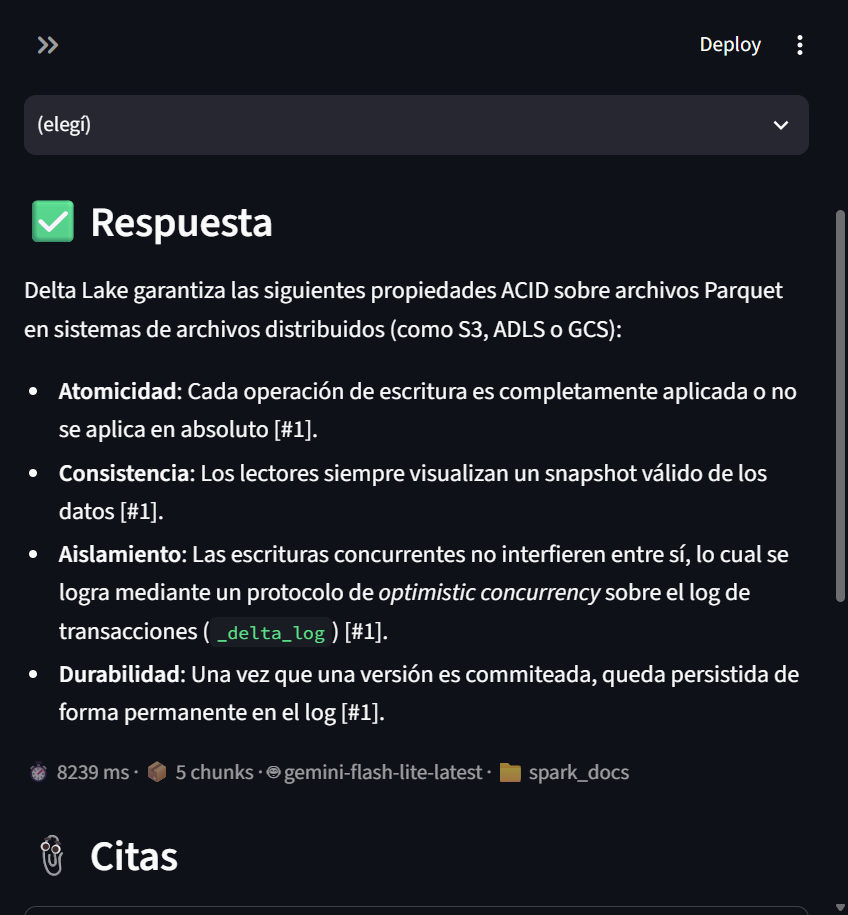
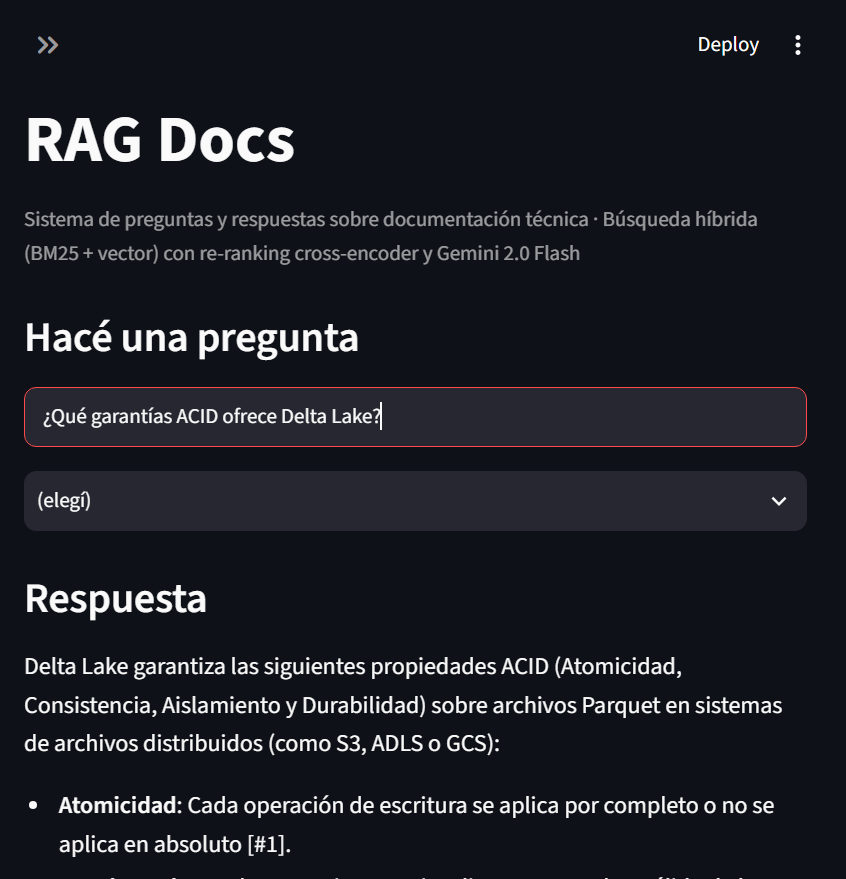
Portfolio ready: real GitHub username, clean demo screenshot, architecture diagram
- README: replace 'your-username/rag-docs' placeholder with franco18min/rag-docs
  in the CI badge so it points to the real workflow once you push
- docs/img/streamlit-demo.jpg: regenerate to match the emoji-free UI (was
  captured before the Streamlit cleanup)
- docs/diagrams/architecture.md: high-level + detailed + Mermaid versions
  of the system architecture, ready to render in GitHub and as a
  whiteboard-friendly ASCII summary

diff --git a/docs/diagrams/architecture.md b/docs/diagrams/architecture.md
@@ -1,0 +1,144 @@
+# RAG Docs — Architecture Diagram
+
+A visual overview of the system. Two parts:
+1. **High-level**: what RAG is, in 30 seconds
+2. **Detailed**: how the actual project implements each step
+
+## High-level: two phases, one shared store
+
+```
+                          RAG: dos fases, un store
+                          ========================
+
+  OFFLINE (una vez)                   ONLINE (cada pregunta)
+  =================                   ====================
+
+  Doc → Chunk → Embed ──┐              ┌──▶  Vector Search ──┐
+                        │              │                     │
+                        ├──────────────┤   hybrid con BM25   ├──▶ Rerank ──▶ LLM ──▶ Answer
+                        │              │                     │    (cross-    (Gemini    + Citations
+                        │              └──▶  BM25 keyword ──┘    encoder)    Flash)
+                        ▼
+                  [Vector Store]
+                  Chroma | Databricks VS
+```
+
+**Key insight:** los mismos datos (chunks + embeddings) se usan para escribir (offline) y para buscar (online). La pipeline se monta sobre ese store compartido.
+
+## Detailed: each box
+
+```
+                  RAG: Retrieval-Augmented Generation
+                  =====================================
+
+  ┌──────────────────── OFFLINE (one-time) ─────────────────────┐
+  │                                                             │
+  │   ┌──────────┐   ┌──────────┐   ┌──────────┐               │
+  │   │Documents │──▶│ Chunker  │──▶│ Embedder │               │
+  │   │PDF/MD/   │   │ 512 tok  │   │ BGE-M3   │               │
+  │   │HTML/TXT  │   │ 64 over- │   │ 1024-dim │               │
+  │   │          │   │ lap      │   │ per chunk│               │
+  │   └──────────┘   └──────────┘   └────┬─────┘               │
+  │                                      │                      │
+  │                                      ▼                      │
+  │                          ┌──────────────────────┐           │
+  │                          │    Vector Store      │           │
+  │                          │                      │           │
+  │                          │  dev: Chroma         │           │
+  │                          │       (in-process)   │           │
+  │                          │                      │           │
+  │                          │  prod: Databricks    │           │
+  │                          │       Vector Search  │           │
+  │                          │   (Delta table +     │           │
+  │                          │    vector index)     │           │
+  │                          └──────────┬───────────┘           │
+  │                                     │                       │
+  └─────────────────────────────────────┼───────────────────────┘
+                                        │
+  ┌──────────────────── ONLINE (per query) ──┼──────────────┐
+  │                                     │               │
+  │   ┌──────────┐                     │               │
+  │   │ Question │                     │               │
+  │   └────┬─────┘                     │               │
+  │        │                            │               │
+  │        ▼                            │               │
+  │   ┌──────────┐                     │               │
+  │   │  Embed   │   (same BGE-M3)    │               │
+  │   │  query   │                     │               │
+  │   └────┬─────┘                     │               │
+  │        │                            │               │
+  │        ▼                            │               │
+  │   ┌────────────────────────────────┘               │
+  │   │  Vector Search (cosine top-K)  ◀── reads index
+  │   │           +  BM25 keyword
+  │   │           =  RRF fusion
+  │   └────────────┬───────────────────┘
+  │                │
+  │                ▼
+  │   ┌────────────────┐
+  │   │   Reranker     │  (BGE-reranker, optional)
+  │   └────────┬───────┘
+  │            │
+  │            ▼
+  │   ┌────────────────┐
+  │   │      LLM       │  Gemini Flash-Lite
+  │   │  + context    │  "Respondé SOLO con
+  │   │  + question   │   este contexto..."
+  │   └────────┬───────┘
+  │            │
+  │            ▼
+  │   ┌────────────────┐
+  │   │  Answer +      │
+  │   │  Citations     │  (text + source paths)
+  │   └────────────────┘
+  │
+  └─────────────────────────────────────────────────────────┘
+```
+
+## Mermaid version (renders in GitHub)
+
+```mermaid
+flowchart TB
+    subgraph offline["Offline: ingestion (one-time)"]
+        A[Documents<br/>PDF/MD/HTML/TXT] --> B[Chunker<br/>512 tok + 64 overlap]
+        B --> C[Embedder<br/>BGE-M3 1024-dim]
+        C --> D[Vector Store<br/>Chroma or Databricks VS]
+    end
+
+    subgraph online["Online: query (per question)"]
+        E[Question] --> F[Embed query<br/>same BGE-M3]
+        F --> G[Vector Search<br/>top-K by cosine]
+        G --> H[Reranker<br/>BGE-reranker cross-encoder]
+        H --> I[LLM<br/>Gemini Flash-Lite]
+        I --> J[Answer + Citations]
+    end
+
+    D -. shared index .-> G
+
+    K[BM25<br/>keyword search] --> G
+
+    style D fill:#fff4cc,stroke:#333
+    style J fill:#d4f4dd,stroke:#333
+```
+
+## How to read this in an interview
+
+When explaining RAG to a non-technical recruiter or peer, use the **high-level** diagram (the first one). Walk through it left to right, top to bottom:
+
+1. "We take documents, split them into chunks, and convert each chunk to a number-vector."
+2. "When the user asks a question, we convert the question the same way."
+3. "We search the store for vectors similar to the question's vector."
+4. "We feed the top chunks plus the question to an LLM."
+5. "The LLM answers using only the chunks we found, and we cite the sources."
+
+For an AI engineer interview, add:
+- "We use hybrid search (BM25 + vector) fused with RRF because vector fails on exact keywords."
+- "We re-rank with a cross-encoder because pure vector misses nuance."
+- "We picked BGE-M3 for multilingual support and on-prem deployment."
+- "We split the project into Chroma (dev) and Databricks (prod) backends behind a single interface."
+
+## See also
+
+- [`docs/ARCHITECTURE.md`](../ARCHITECTURE.md) — full text version
+- [`docs/adr/0004-vector-store-abstraction.md`](../adr/0004-vector-store-abstraction.md) — why we have two backends
+- [`docs/adr/0002-hybrid-search-bm25-vector.md`](../adr/0002-hybrid-search-bm25-vector.md) — hybrid search

diff --git a/README.md b/README.md
@@ -7,7 +7,7 @@
 ![License](https://img.shields.io/badge/license-MIT-lightgrey)
 ![Stack](https://img.shields.io/badge/stack-100%25%20gratis-success)
 ![Deploy](https://img.shields.io/badge/Databricks%20Free%20Edition-validated-blue)
-![CI](https://github.com/your-username/rag-docs/actions/workflows/ci.yml/badge.svg)
+![CI](https://github.com/franco18min/rag-docs/actions/workflows/ci.yml/badge.svg)
 
 ![Streamlit demo: query "¿Qué garantías ACID ofrece Delta Lake?" with full citation-backed response](docs/img/streamlit-demo.jpg)
 
